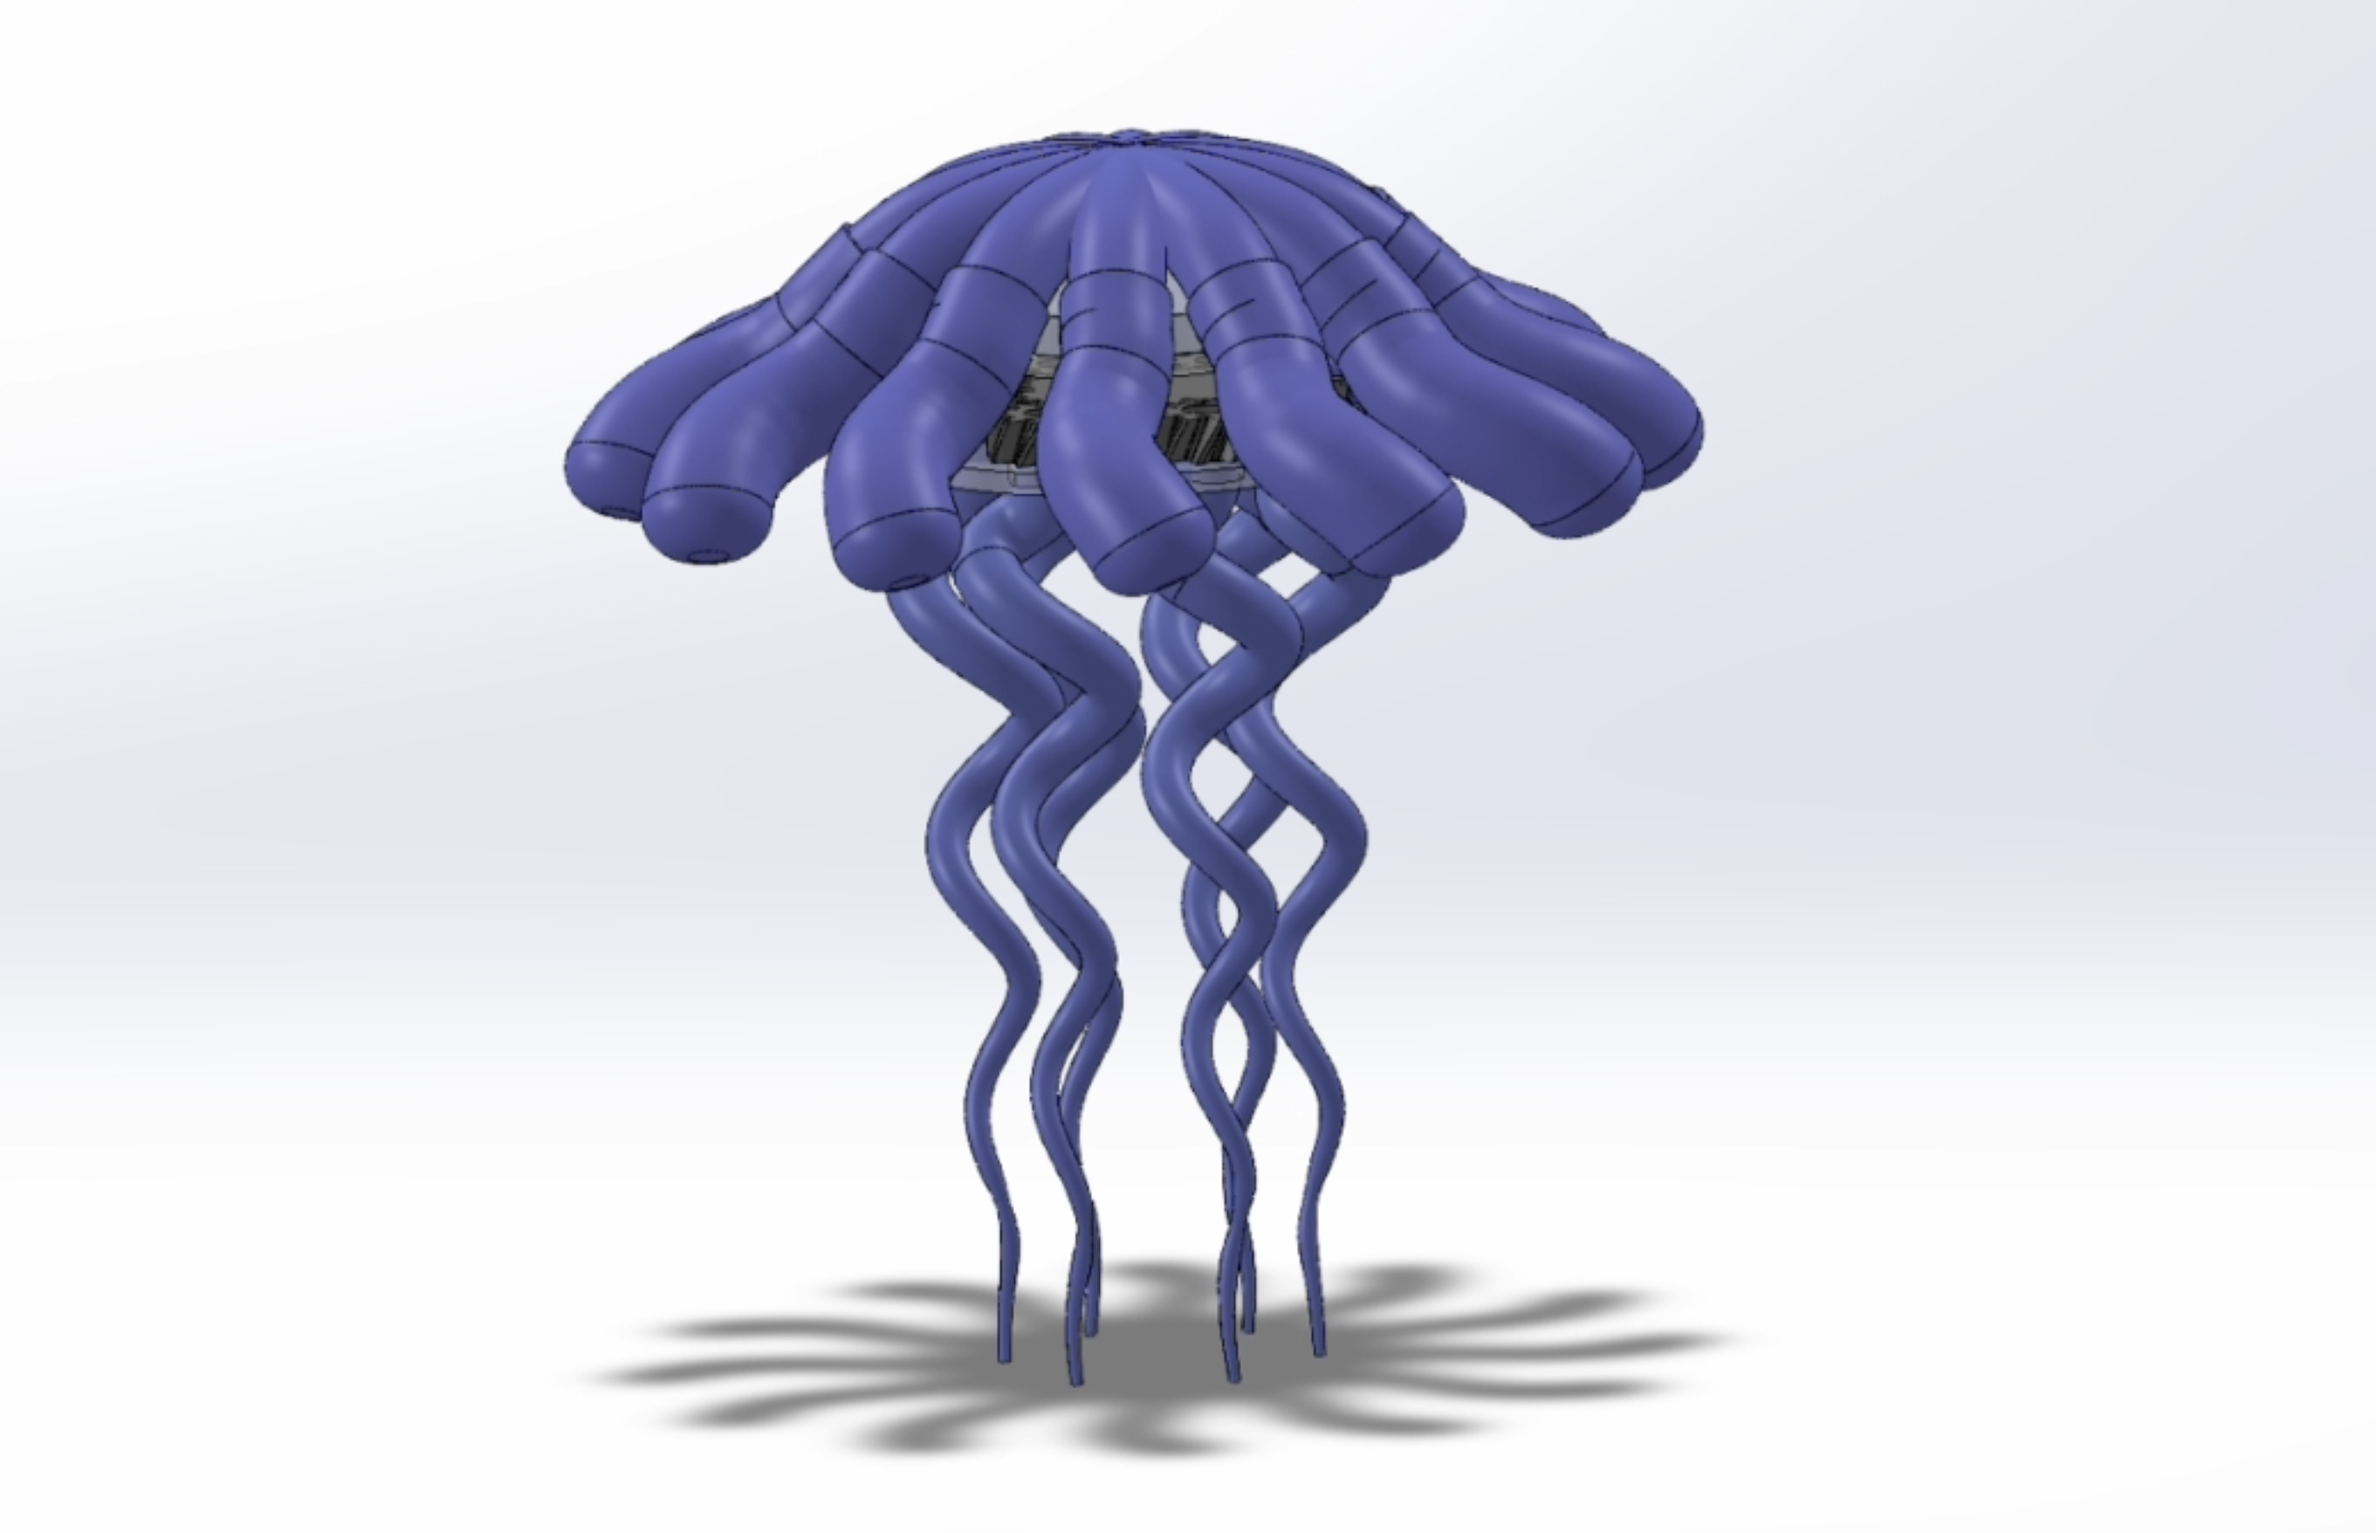
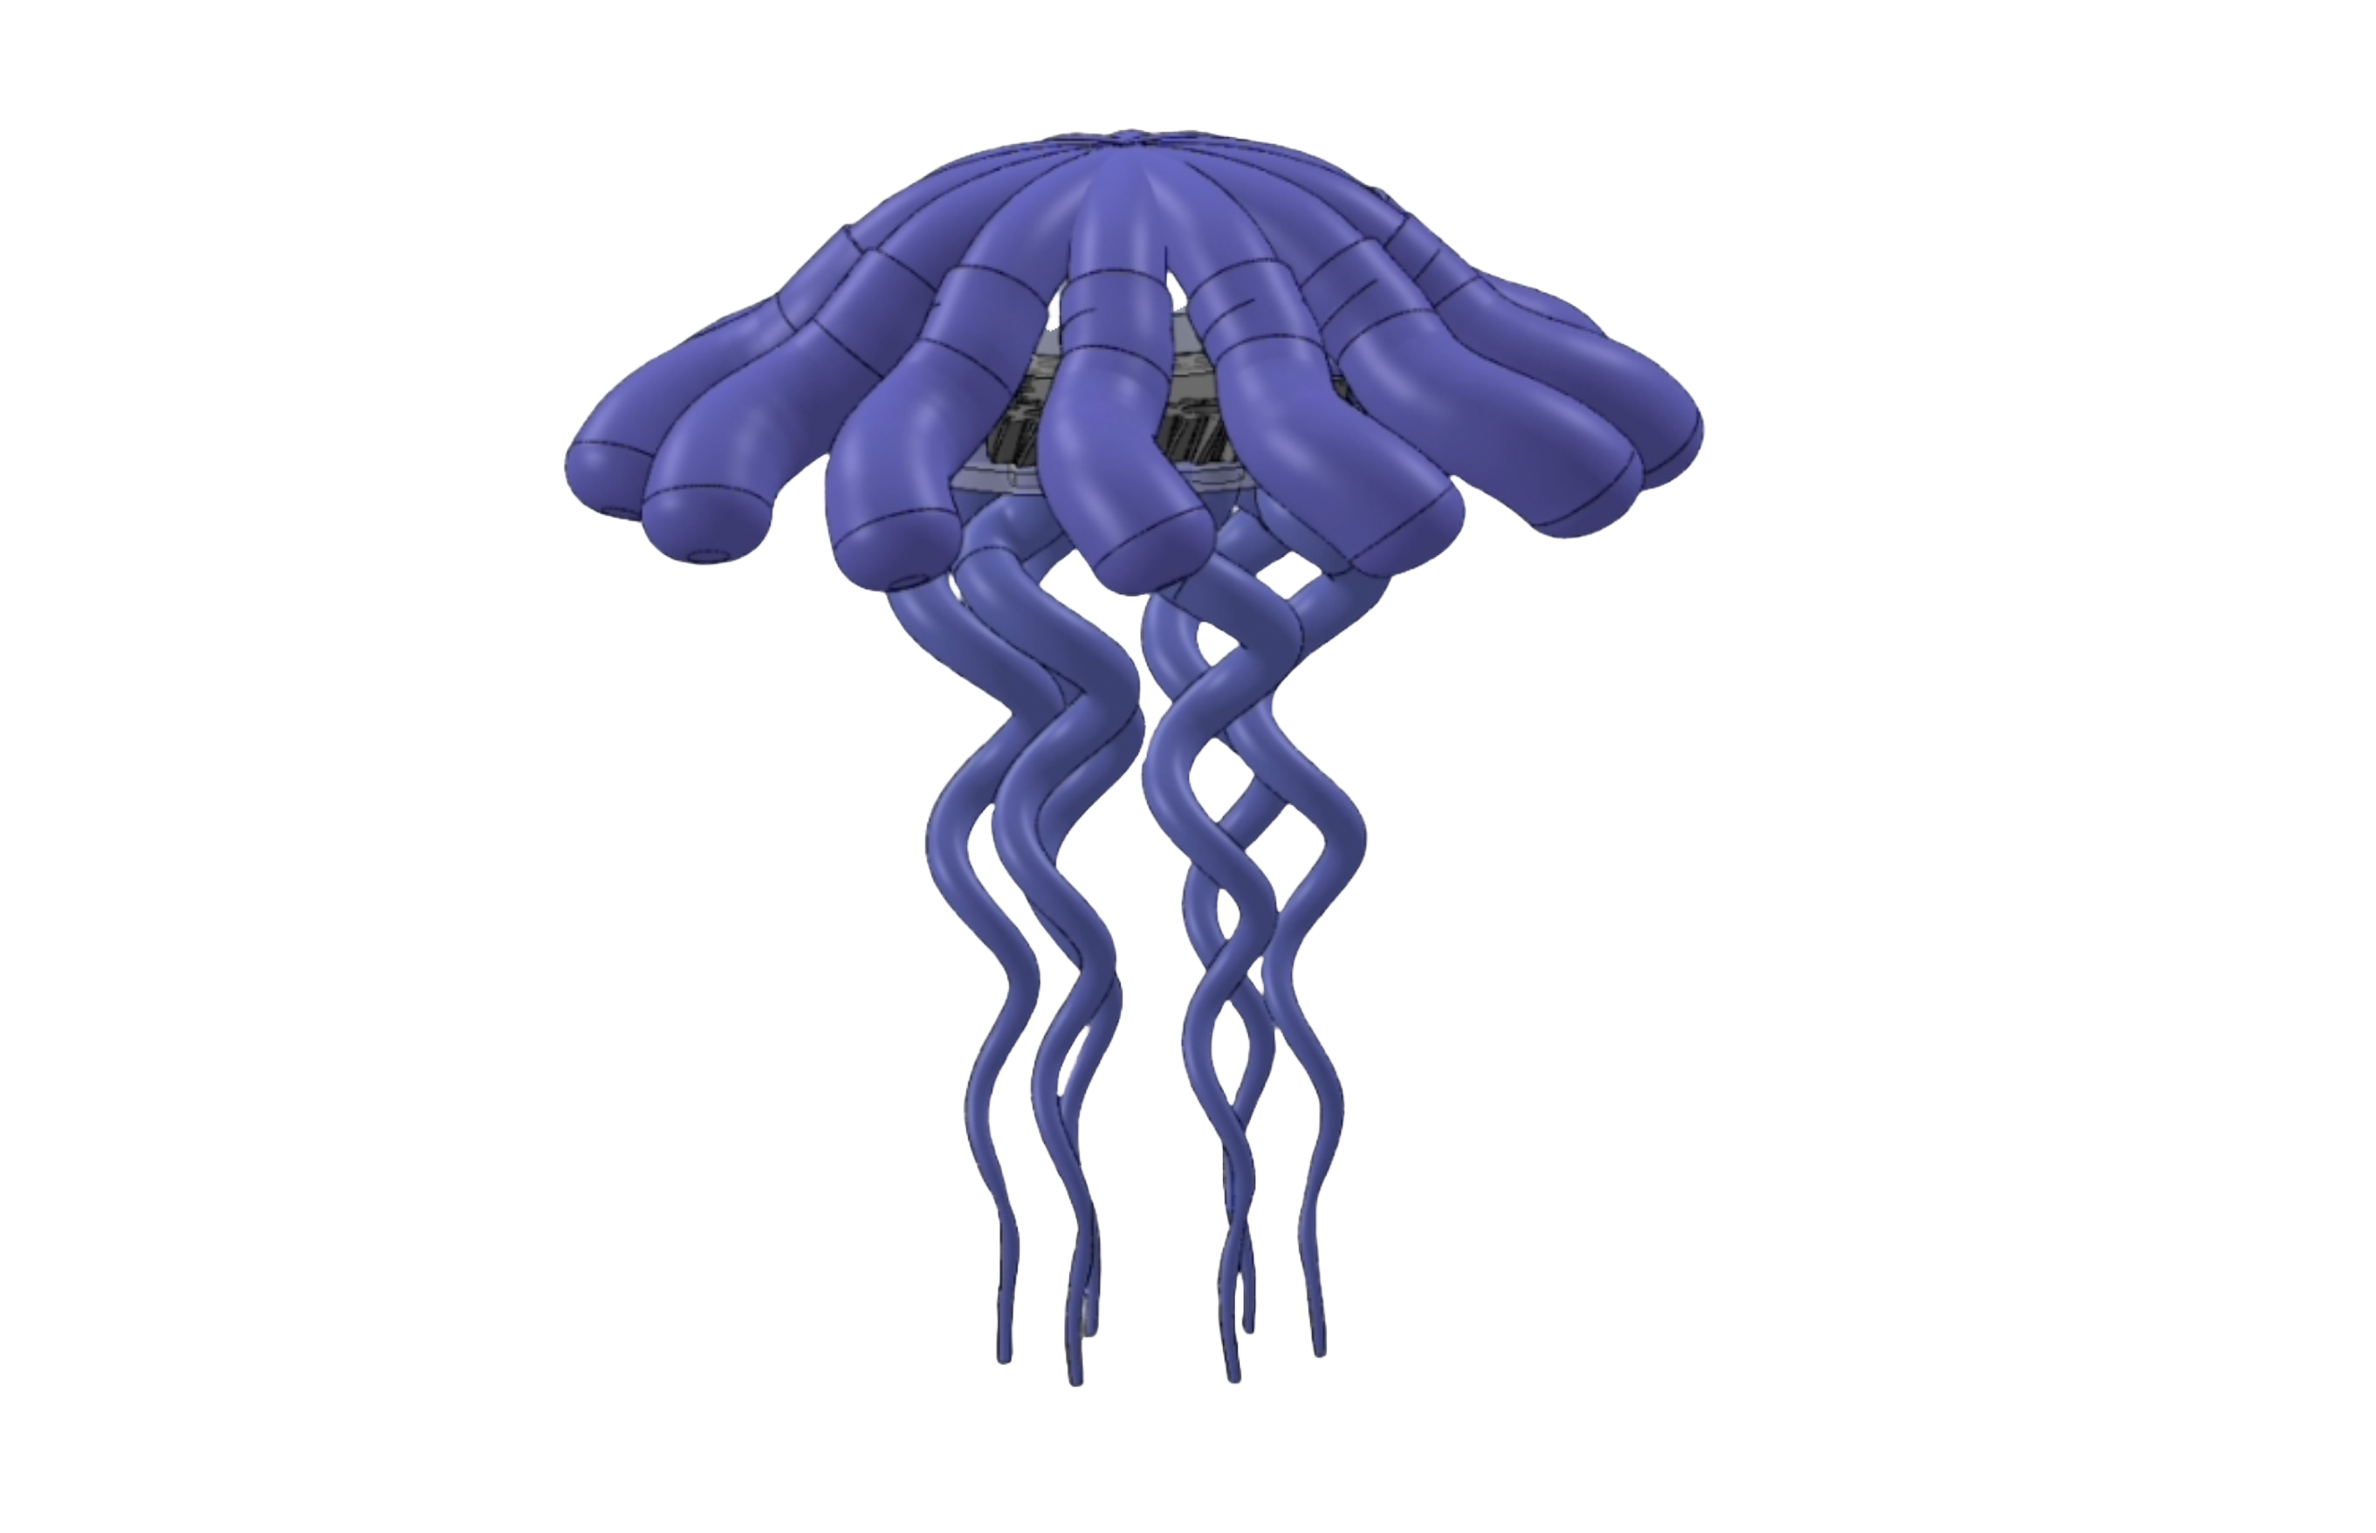
Remove background from images

Changed region(s): [[0.0, 0.0, 1.0, 0.738], [0.2498, 0.7995, 0.7182, 0.9533], [0.4372, 0.1845, 0.4996, 0.2153]]

diff --git a/src/app/page.tsx b/src/app/page.tsx
@@ -1,5 +1,5 @@
-"use client"
-import { useState, useEffect } from 'react';
+"use client";
+import { useState, useEffect } from "react";
 import Banner from "@/components/Banner";
 import Spline from "@splinetool/react-spline";
 import Link from "next/link";
@@ -7,11 +7,7 @@ import Socials from "@/components/Socials";
 import Button from "@/components/Button";
 import Footer from "@/components/Footer";
 import Image from "next/image";
-import HolographicEffect from '@/components/Holograph';
-
-
-
-
+import HolographicEffect from "@/components/Holograph";
 
 export default function Home() {
   const [isMobile, setIsMobile] = useState(false);
@@ -20,33 +16,34 @@ export default function Home() {
     const handleResize = () => {
       setIsMobile(window.innerWidth < 768);
     };
-    
+
     handleResize();
-    window.addEventListener('resize', handleResize);
-    
+    window.addEventListener("resize", handleResize);
+
     return () => {
-      window.removeEventListener('resize', handleResize);
+      window.removeEventListener("resize", handleResize);
     };
   }, []);
- 
+
   if (isMobile) {
     return (
       <div className="min-h-screen w-full overflow-y-auto flex flex-col">
         <div className="w-full pb-[70px]">
-        <div className="relative h-[500px] border-b-2 border-black">
-        <HolographicEffect className="w-full h-full absolute inset-0" />
-  <div className="absolute top-6 left-6 text-4xl w-64 font-bold text-white [text-shadow:-1px_-1px_0_#000,_1px_-1px_0_#000,_-1px_1px_0_#000,_2px_2px_0_#000]">
-    ART TECH AT THE UNIVERSITY OF WATERLOO
-  </div>
-</div>
+          <div className="relative h-[500px] border-b-2 border-black">
+            <HolographicEffect className="w-full h-full absolute inset-0" />
+            <div className="absolute top-6 left-6 text-4xl w-64 font-bold text-white [text-shadow:-1px_-1px_0_#000,_1px_-1px_0_#000,_-1px_1px_0_#000,_2px_2px_0_#000]">
+              ART TECH AT THE UNIVERSITY OF WATERLOO
+            </div>
+          </div>
 
           <div className="bg-[#FEE4D4] p-6 border-b-2 border-black">
-            PRISM IS AN INTERDISCIPLINARY DESIGN TEAM TO CHALLENGE THE STATUS QUO AND ENCOURAGE NEW FORMS OF EXPRESSION
+            PRISM IS AN INTERDISCIPLINARY DESIGN TEAM TO CHALLENGE THE STATUS
+            QUO AND ENCOURAGE NEW FORMS OF EXPRESSION
           </div>
 
           <div className="h-[500px] border-b-2 border-black relative">
             <Image
-              src="/mind-garden-cad.webp"
+              src="/mind-garden-cad.png"
               alt="Project showcase 1"
               fill
               className="object-cover w-full h-full"
@@ -55,7 +52,9 @@ export default function Home() {
 
           <div className="bg-[#A3D5F8] p-6 border-b-2 border-black">
             <div className="text-sm mb-4">
-              KINETIC SCULPTURES / GENERATIVE ART / PROJECTION MAPPING / BIO-ART / IMMERSIVE EXPERIENCES / AUGMENTED/VIRTUAL REALTIY / ROBOTS / WEARABLE TECHNOLOGY / ANYTHING YOU CAN DREAM OF
+              KINETIC SCULPTURES / GENERATIVE ART / PROJECTION MAPPING / BIO-ART
+              / IMMERSIVE EXPERIENCES / AUGMENTED/VIRTUAL REALTIY / ROBOTS /
+              WEARABLE TECHNOLOGY / ANYTHING YOU CAN DREAM OF
             </div>
             <Link href="/projects">
               <div className="text-right font-bold hover:underline cursor-pointer">
@@ -84,7 +83,7 @@ export default function Home() {
     <div className="flex flex-col flex-1">
       <div className="flex-1 flex">
         <div className="flex flex-1 border-r-2 border-black relative">
-        <HolographicEffect className="w-full h-full absolute inset-0" />
+          <HolographicEffect className="w-full h-full absolute inset-0" />
 
           <div className="absolute top-6 left-6 text-6xl w-80 font-bold text-white [text-shadow:-1px_-1px_0_#000,_1px_-1px_0_#000,_-1px_1px_0_#000,_2px_2px_0_#000]">
             ART TECH AT THE UNIVERSITY OF WATERLOO
@@ -102,7 +101,9 @@ export default function Home() {
             </div>
             <div className="flex-1 flex flex-col gap-5 items-center justify-center p-6 border-b-2 border-black bg-[#A3D5F8]">
               <div>
-                KINETIC SCULPTURES / GENERATIVE ART / PROJECTION MAPPING / BIO-ART / IMMERSIVE EXPERIENCES / AUGMENTED/VIRTUAL REALTIY / ROBOTS / WEARABLE TECHNOLOGY / ANYTHING YOU CAN DREAM OF
+                KINETIC SCULPTURES / GENERATIVE ART / PROJECTION MAPPING /
+                BIO-ART / IMMERSIVE EXPERIENCES / AUGMENTED/VIRTUAL REALTIY /
+                ROBOTS / WEARABLE TECHNOLOGY / ANYTHING YOU CAN DREAM OF
               </div>
               <Link href="/projects" className="w-full">
                 <div className="text-right font-bold hover:underline cursor-pointer">
@@ -121,14 +122,15 @@ export default function Home() {
           </div>
           <div className="flex flex-col flex-1">
             <div className="h-1/3 bg-[#FEE4D4] flex border-b-2 border-black items-center justify-center p-6">
-              PRISM IS AN INTERDISCIPLINARY DESIGN TEAM TO CHALLENGE THE STATUS QUO AND ENCOURAGE NEW FORMS OF EXPRESSION
+              PRISM IS AN INTERDISCIPLINARY DESIGN TEAM TO CHALLENGE THE STATUS
+              QUO AND ENCOURAGE NEW FORMS OF EXPRESSION
             </div>
             <div className="h-[400px] border-b-2 border-black relative w-full">
               <Image
-                src="/mind-garden-cad.webp"
+                src="/mind-garden-cad.png"
                 alt="Project showcase 3"
                 fill
-                style={{ transform: 'scale(1)' }}
+                style={{ transform: "scale(1)" }}
                 className="object-contain w-full h-full "
               />
             </div>
